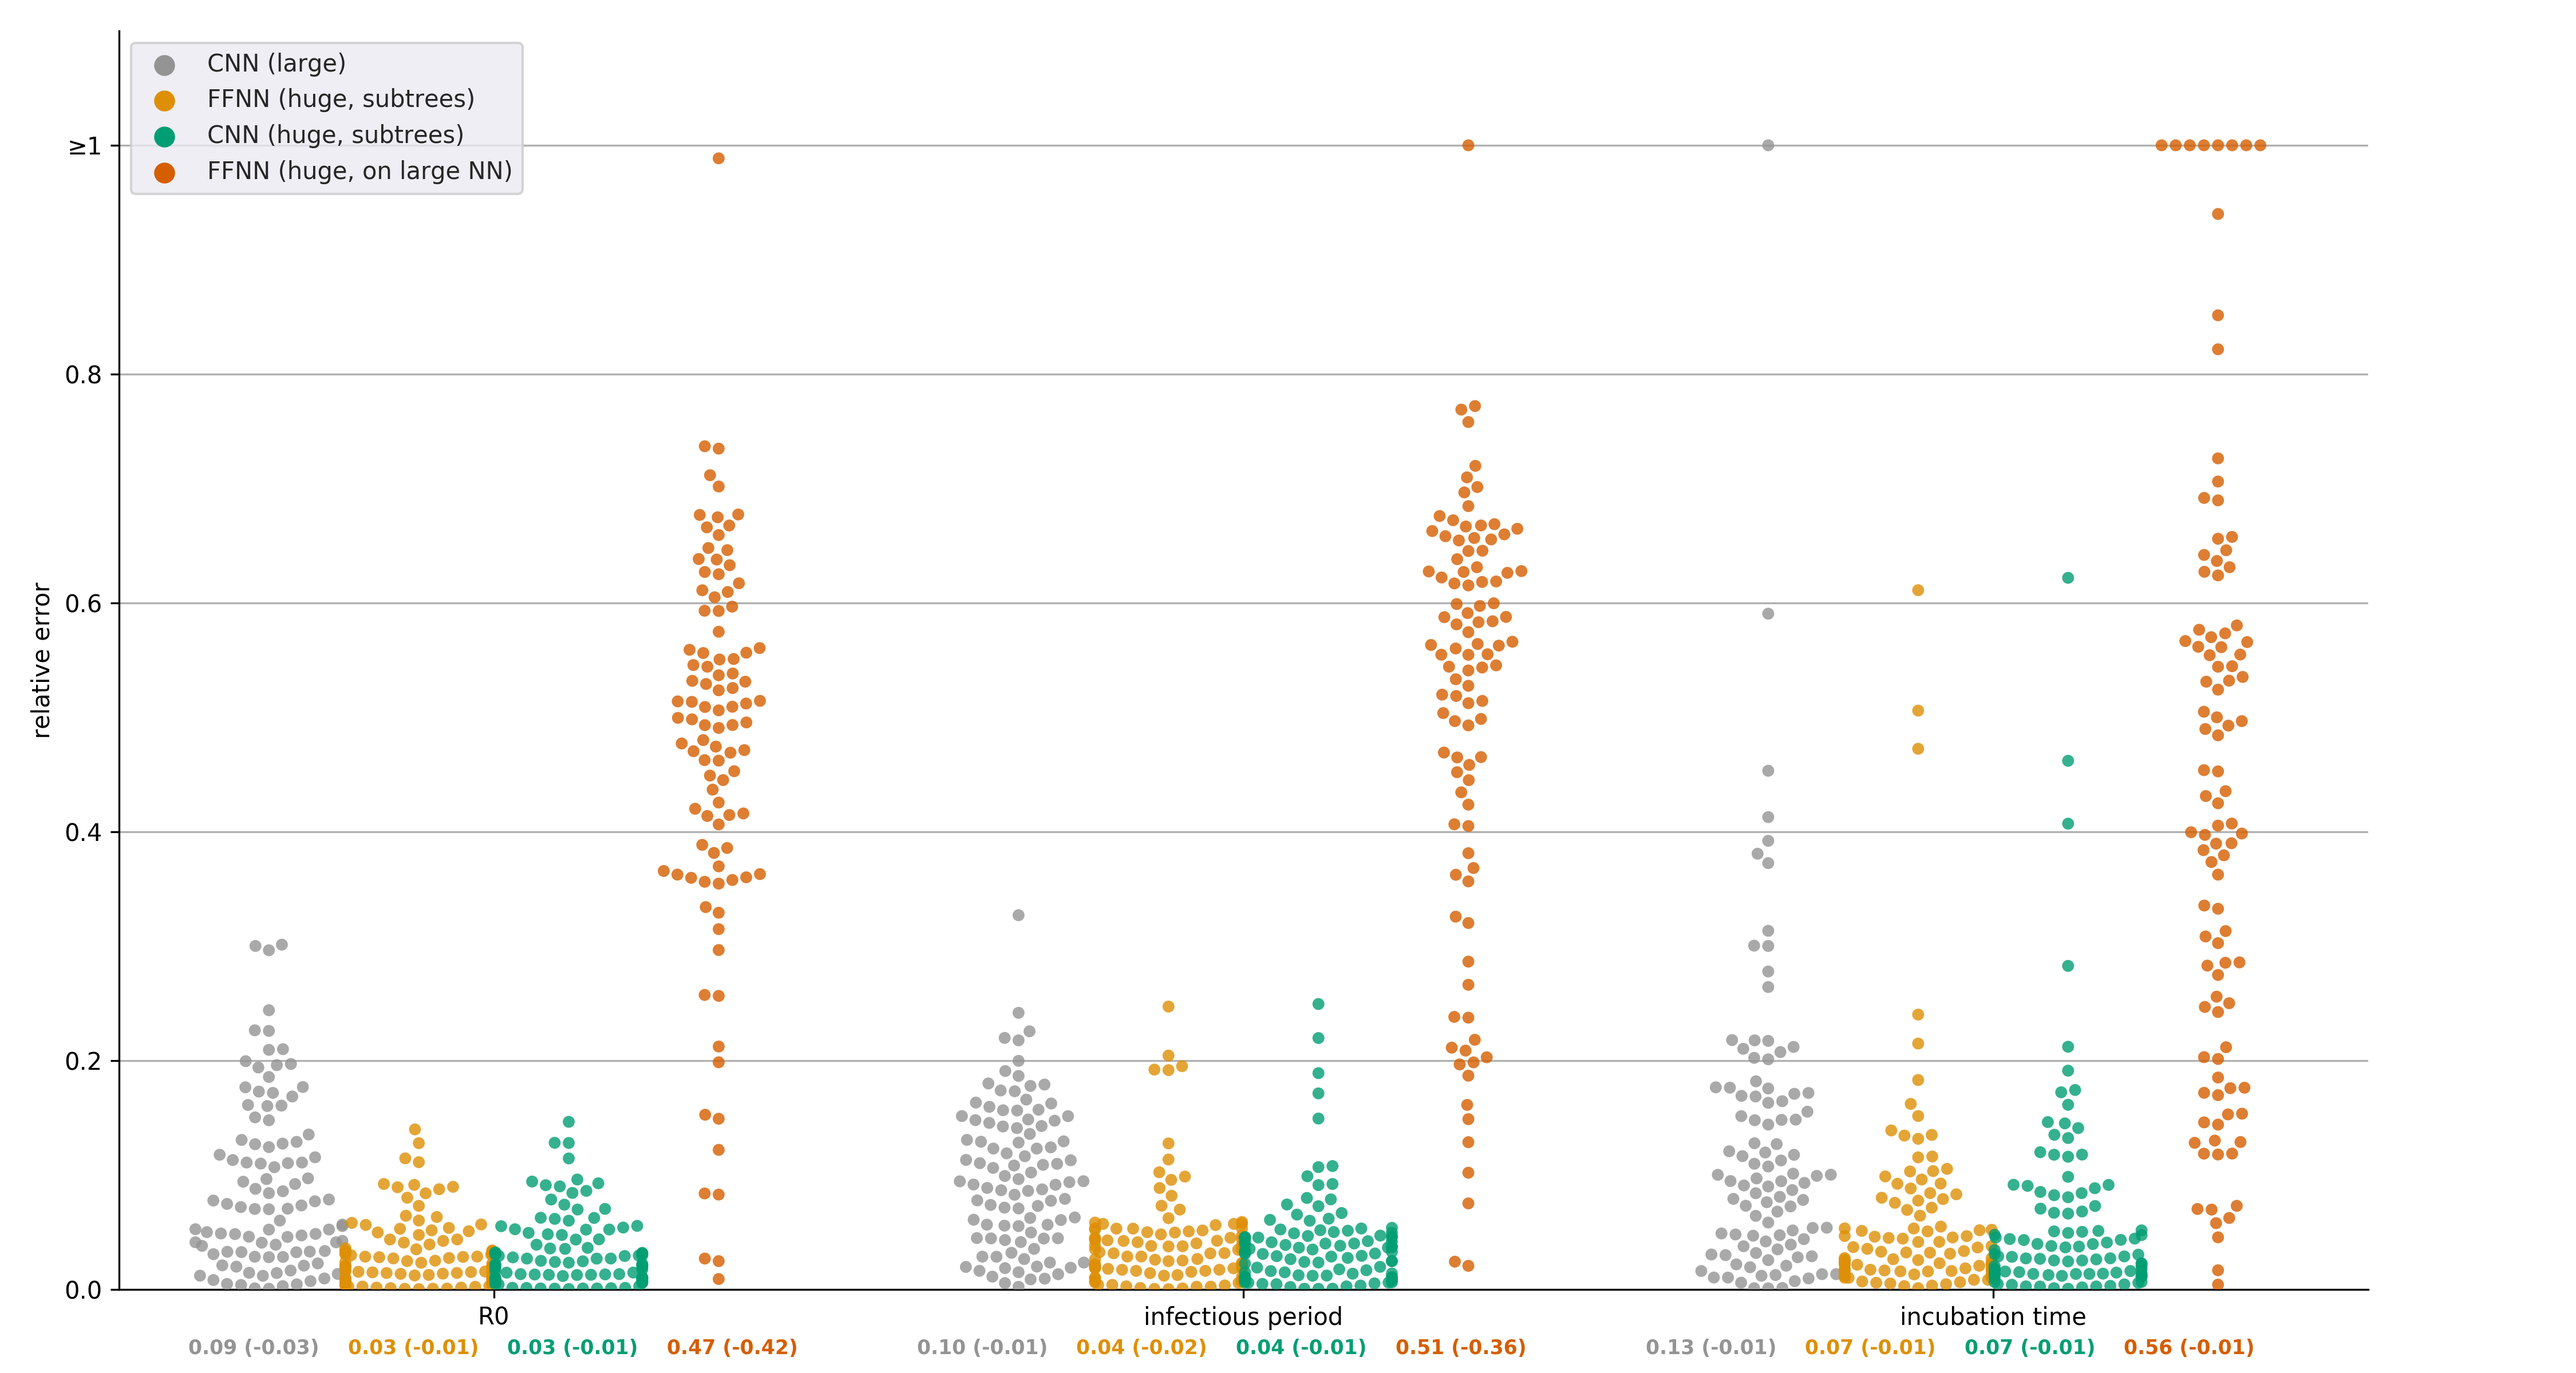
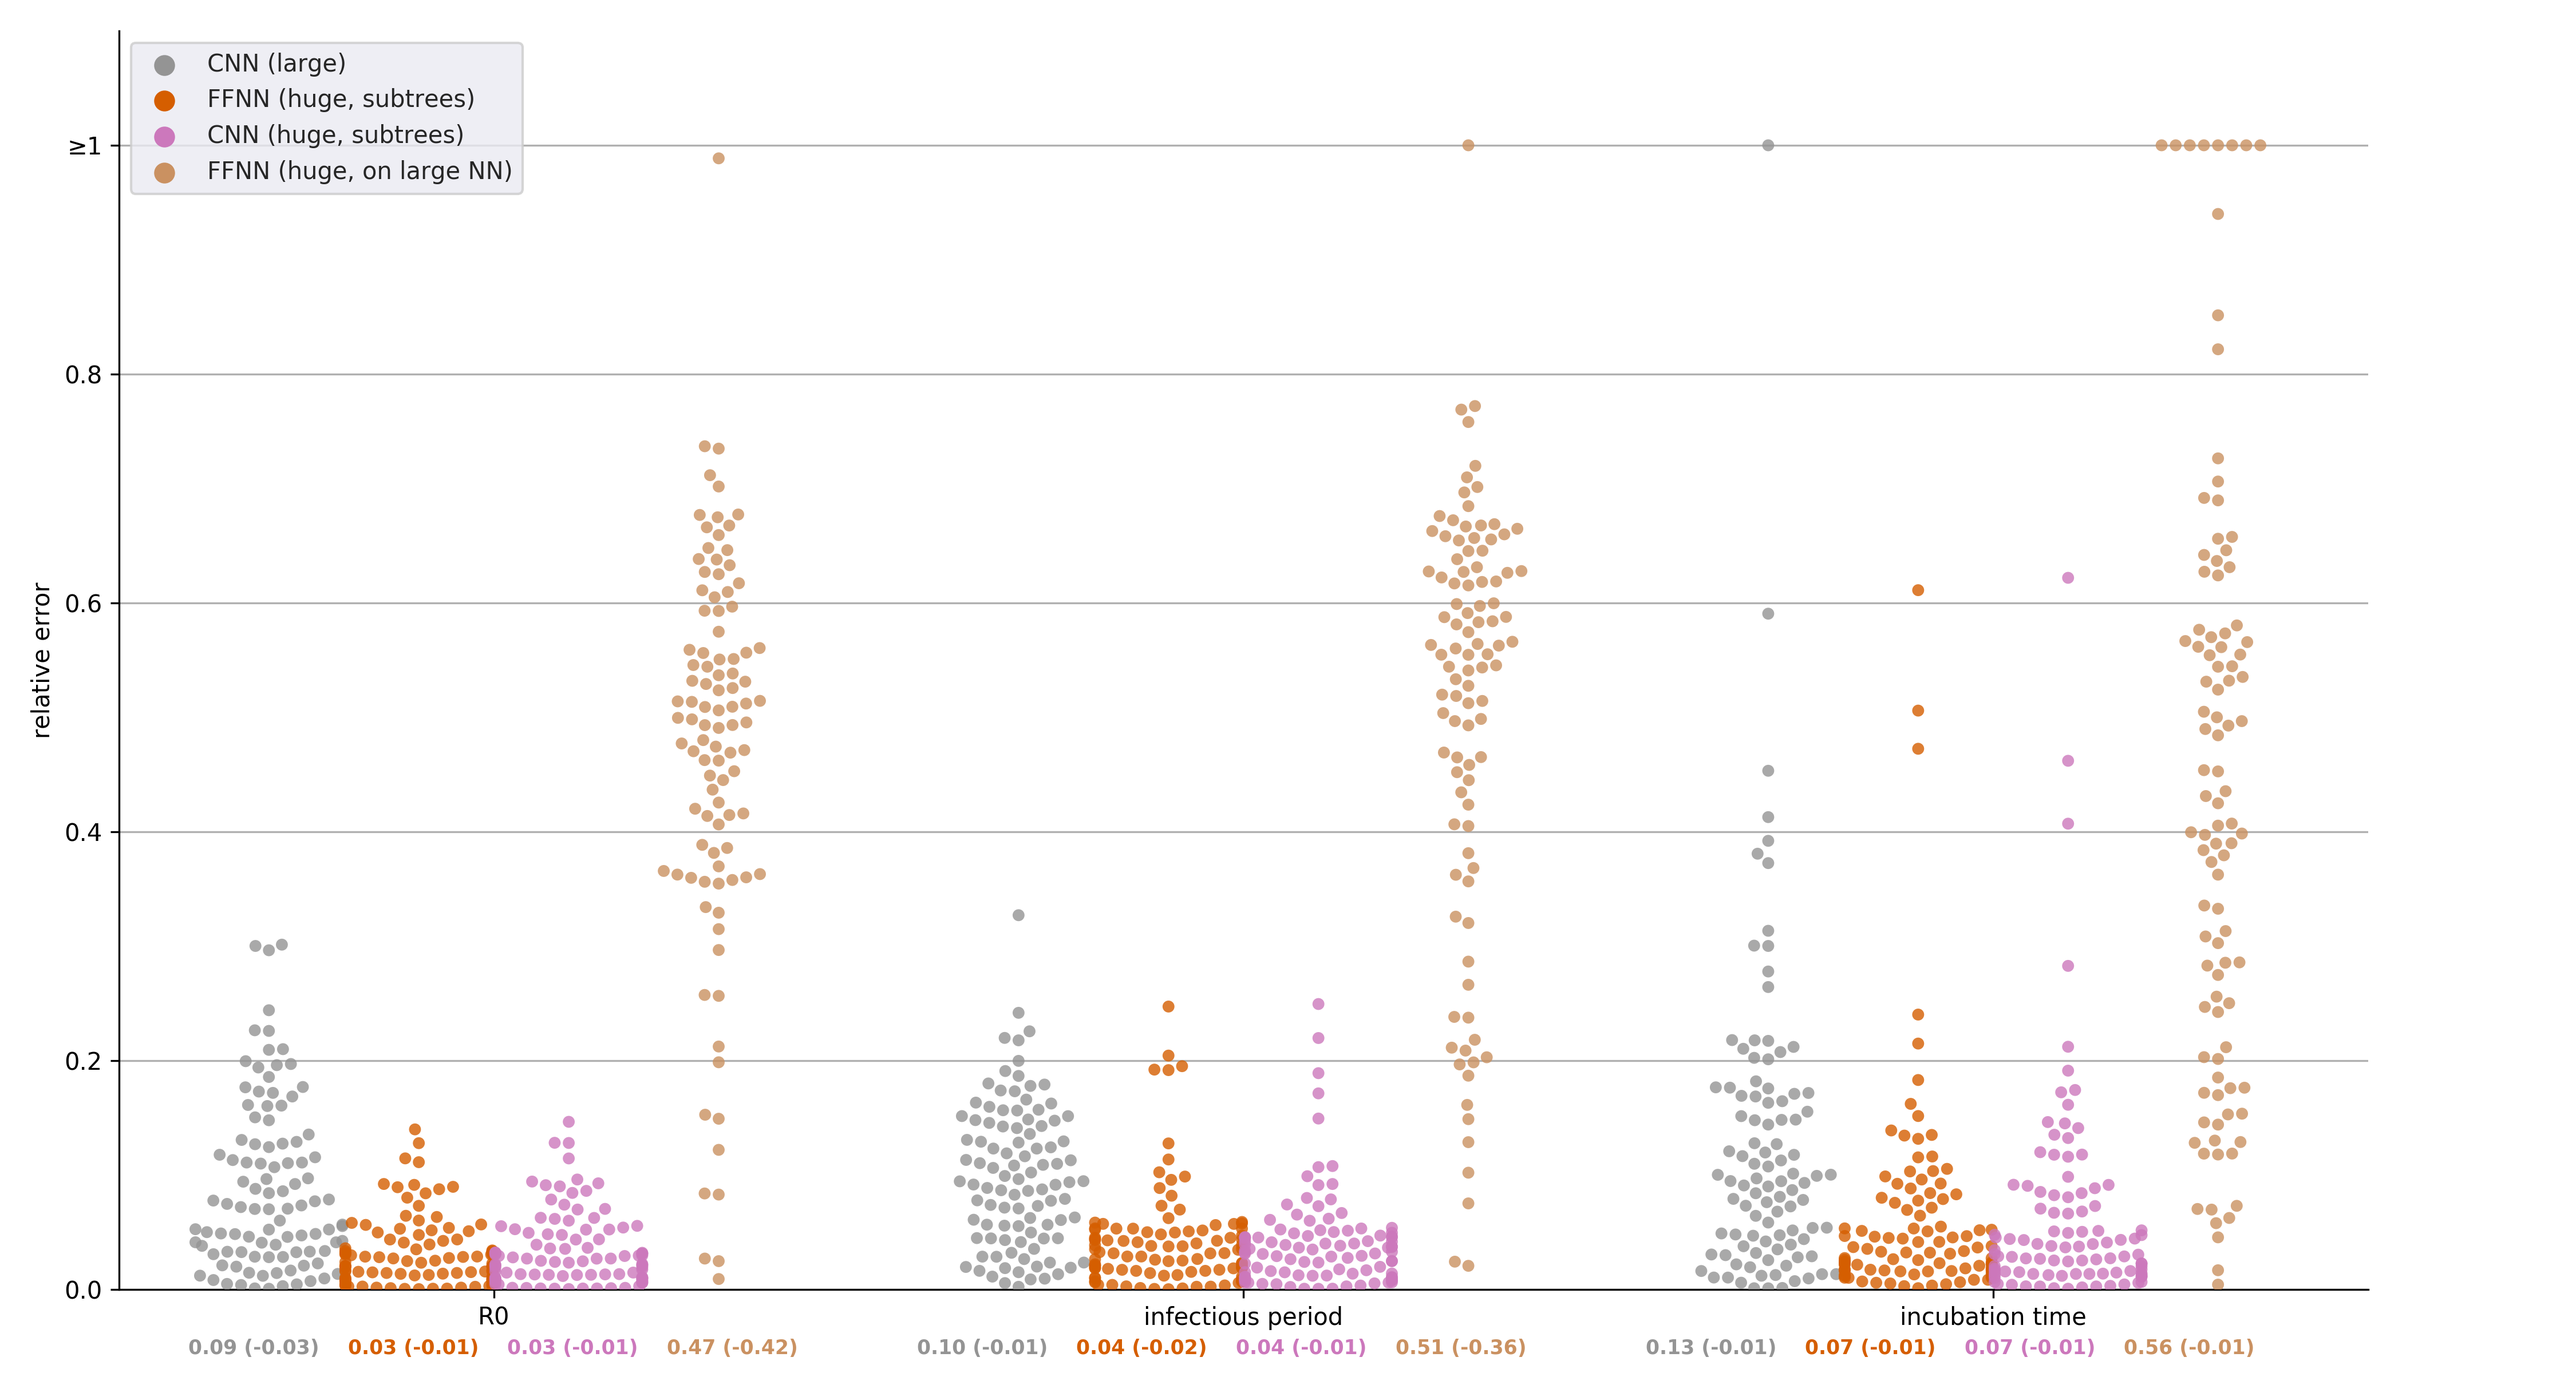
Harmonised colourscheme between Sup Fig 8 and 10

diff --git a/test_subtrees/huge_plot_error.py b/test_subtrees/huge_plot_error.py
@@ -51,7 +51,7 @@ if __name__ == "__main__":
     ERROR_COL = 'relative error'
     plot_df = pd.DataFrame(data=data, columns=['parameter', ERROR_COL, 'config'])
     # CNN-large, FFNN-subtrees, CNN-subtrees, FFNN-huge-on-large
-    palette = [sns.color_palette("colorblind")[7]] + sns.color_palette("colorblind")[1:]
+    palette = [sns.color_palette("colorblind")[7]] + sns.color_palette("colorblind")[3:]
     sns.swarmplot(x="parameter", y=ERROR_COL, palette=palette, data=plot_df, alpha=.8, hue="config", ax=ax, dodge=True)
     ax.spines['right'].set_visible(False)
     ax.spines['top'].set_visible(False)
